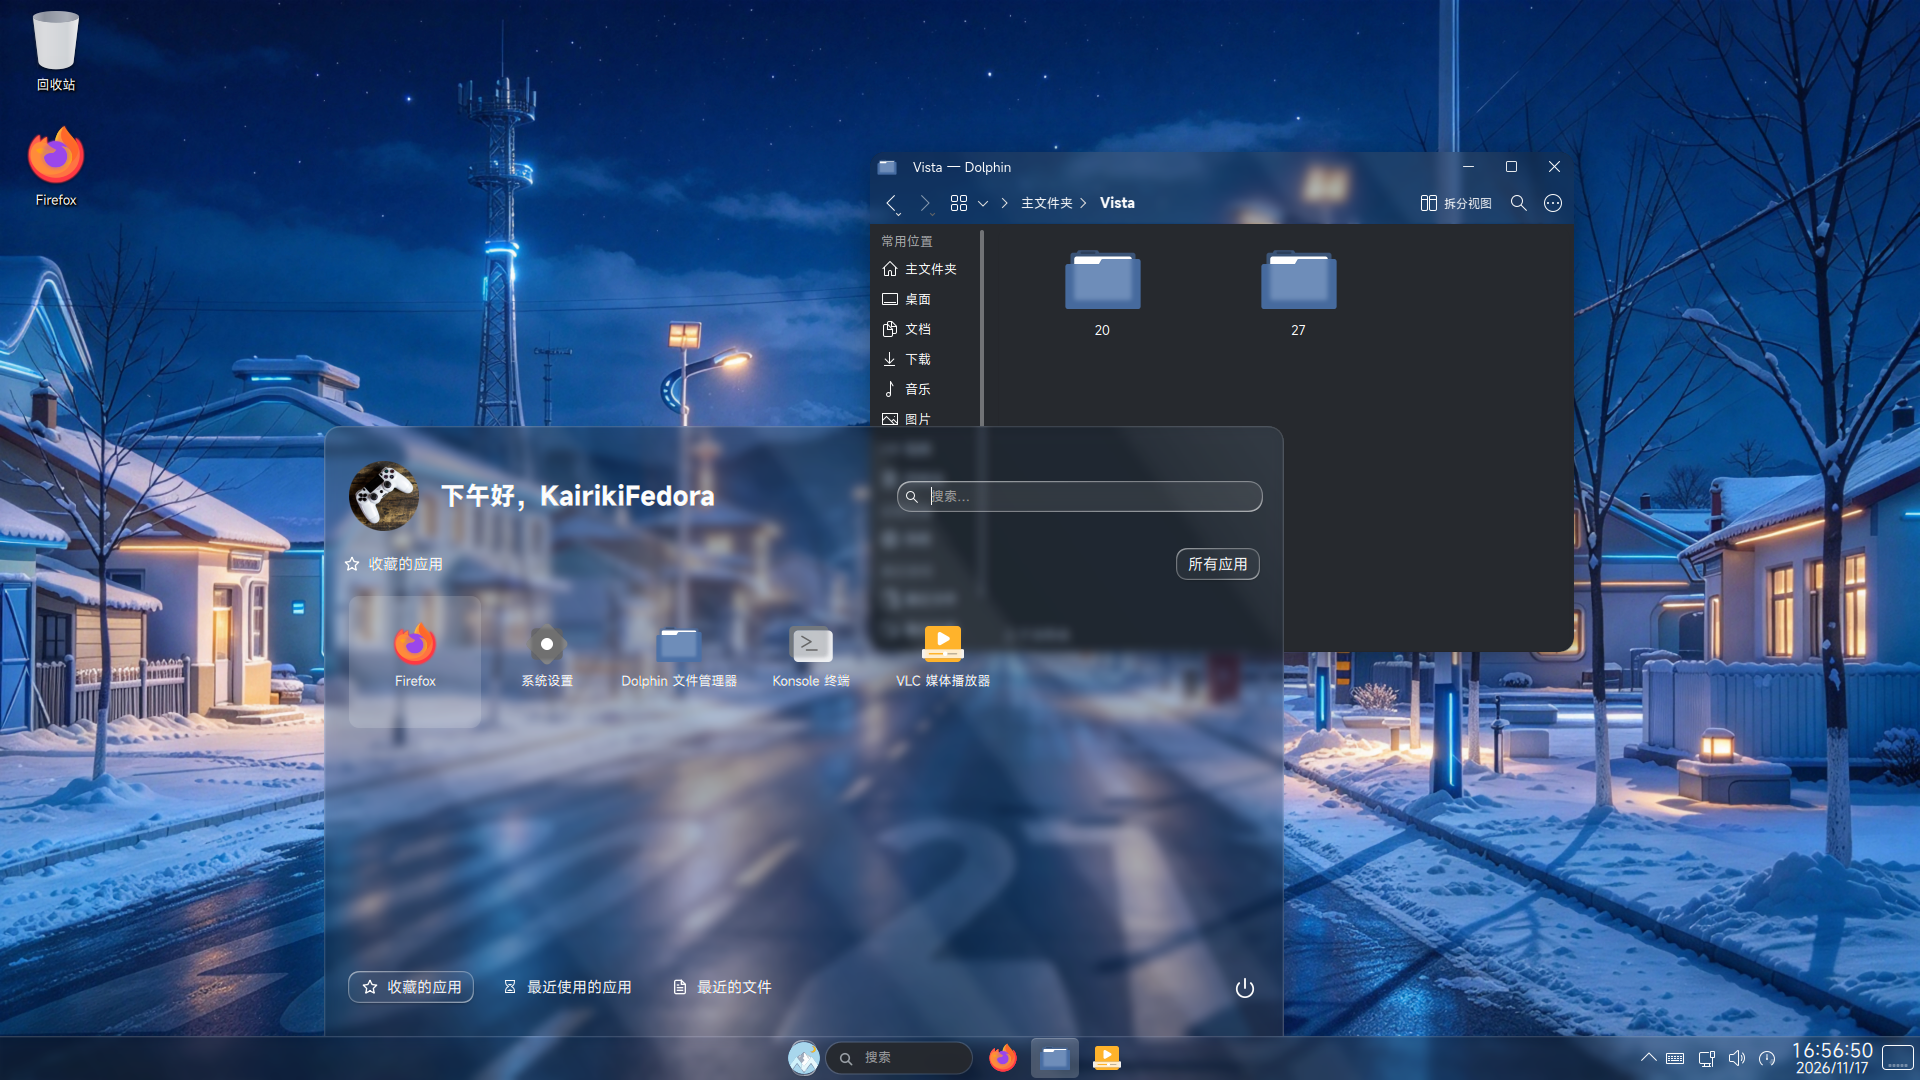
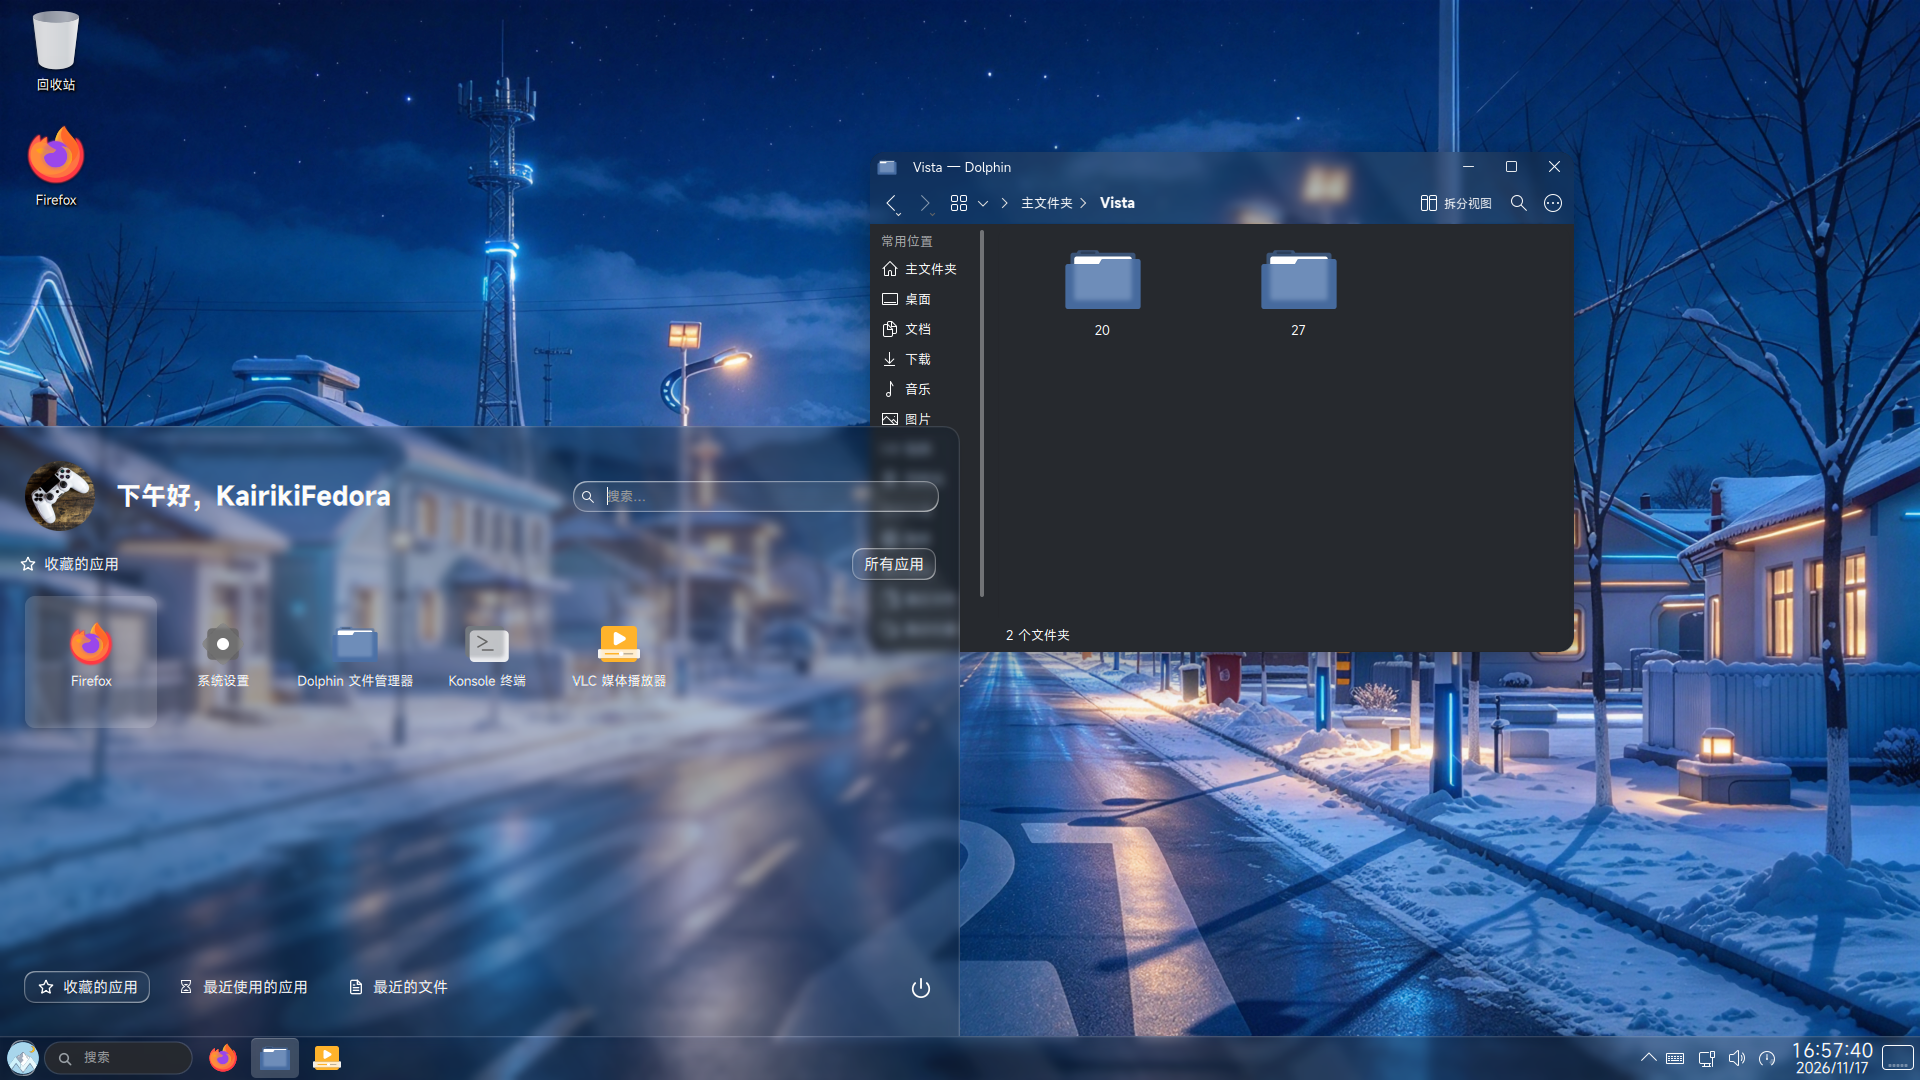
Revert:Default Layout is Windows 10 Taskbar Layout

diff --git a/usr/share/plasma/look-and-feel/evernight-vista-dark/contents/layouts/org.kde.plasma.desktop-layout.js b/usr/share/plasma/look-and-feel/evernight-vista-dark/contents/layouts/org.kde.plasma.desktop-layout.js
@@ -42,7 +42,6 @@ if (geo.width > maximumWidth) {
     panel.maximumLength = maximumWidth;
 }
 
-panel.addWidget("org.kde.plasma.panelspacer")
 var kickoff = panel.addWidget("org.miryugaming.startmenu")
 kickoff.writeConfig("favorites", ["preferred://browser", "systemsettings.desktop", "org.kde.dolphin.desktop", "org.kde.konsole.desktop", "vlc.desktop"])
 
@@ -53,7 +52,7 @@ let taskBar = panel.addWidget("org.kde.plasma.icontasks.skyler")
 taskBar.writeConfig("launchers",["preferred://browser","preferred://filemanager","applications:vlc.desktop"])
 taskBar.writeConfig("hoverEffect",false)
 
-panel.addWidget("org.kde.plasma.panelspacer")
+panel.addWidget("org.kde.plasma.pager")
 
 panel.addWidget("org.kde.windowsmodern.systemtray")
 let digitalClock = panel.addWidget("org.kde.plasma.digitalclock")

diff --git a/usr/share/plasma/look-and-feel/evernight-vista-modern-dark/contents/layouts/org.kde.plasma.desktop-layout.js b/usr/share/plasma/look-and-feel/evernight-vista-modern-dark/contents/layouts/org.kde.plasma.desktop-layout.js
@@ -42,6 +42,7 @@ if (geo.width > maximumWidth) {
     panel.maximumLength = maximumWidth;
 }
 
+panel.addWidget("org.kde.plasma.panelspacer")
 var kickoff = panel.addWidget("org.miryugaming.startmenu")
 kickoff.writeConfig("favorites", ["preferred://browser", "systemsettings.desktop", "org.kde.dolphin.desktop", "org.kde.konsole.desktop", "vlc.desktop"])
 
@@ -52,7 +53,7 @@ let taskBar = panel.addWidget("org.kde.plasma.icontasks.skyler")
 taskBar.writeConfig("launchers",["preferred://browser","preferred://filemanager","applications:vlc.desktop"])
 taskBar.writeConfig("hoverEffect",false)
 
-panel.addWidget("org.kde.plasma.pager")
+panel.addWidget("org.kde.plasma.panelspacer")
 
 panel.addWidget("org.kde.windowsmodern.systemtray")
 let digitalClock = panel.addWidget("org.kde.plasma.digitalclock")

diff --git a/usr/share/plasma/look-and-feel/evernight-vista-modern/contents/layouts/org.kde.plasma.desktop-layout.js b/usr/share/plasma/look-and-feel/evernight-vista-modern/contents/layouts/org.kde.plasma.desktop-layout.js
@@ -42,6 +42,7 @@ if (geo.width > maximumWidth) {
     panel.maximumLength = maximumWidth;
 }
 
+panel.addWidget("org.kde.plasma.panelspacer")
 var kickoff = panel.addWidget("org.miryugaming.startmenu")
 kickoff.writeConfig("favorites", ["preferred://browser", "systemsettings.desktop", "org.kde.dolphin.desktop", "org.kde.konsole.desktop", "vlc.desktop"])
 
@@ -52,7 +53,7 @@ let taskBar = panel.addWidget("org.kde.plasma.icontasks.skyler")
 taskBar.writeConfig("launchers",["preferred://browser","preferred://filemanager","applications:vlc.desktop"])
 taskBar.writeConfig("hoverEffect",false)
 
-panel.addWidget("org.kde.plasma.pager")
+panel.addWidget("org.kde.plasma.panelspacer")
 
 panel.addWidget("org.kde.windowsmodern.systemtray")
 let digitalClock = panel.addWidget("org.kde.plasma.digitalclock")

diff --git a/usr/share/plasma/look-and-feel/evernight-vista/contents/layouts/org.kde.plasma.desktop-layout.js b/usr/share/plasma/look-and-feel/evernight-vista/contents/layouts/org.kde.plasma.desktop-layout.js
@@ -42,7 +42,6 @@ if (geo.width > maximumWidth) {
     panel.maximumLength = maximumWidth;
 }
 
-panel.addWidget("org.kde.plasma.panelspacer")
 var kickoff = panel.addWidget("org.miryugaming.startmenu")
 kickoff.writeConfig("favorites", ["preferred://browser", "systemsettings.desktop", "org.kde.dolphin.desktop", "org.kde.konsole.desktop", "vlc.desktop"])
 
@@ -53,7 +52,7 @@ let taskBar = panel.addWidget("org.kde.plasma.icontasks.skyler")
 taskBar.writeConfig("launchers",["preferred://browser","preferred://filemanager","applications:vlc.desktop"])
 taskBar.writeConfig("hoverEffect",false)
 
-panel.addWidget("org.kde.plasma.panelspacer")
+panel.addWidget("org.kde.plasma.pager")
 
 panel.addWidget("org.kde.windowsmodern.systemtray")
 let digitalClock = panel.addWidget("org.kde.plasma.digitalclock")

diff --git a/usr/share/plasma/layout-templates/evernight-vista-panel/contents/layout.js b/usr/share/plasma/layout-templates/evernight-vista-panel/contents/layout.js
@@ -44,7 +44,6 @@ if (panel.formFactor === "horizontal") {
     }
 }
 
-panel.addWidget("org.kde.plasma.panelspacer")
 var kickoff = panel.addWidget("org.miryugaming.startmenu")
 panel.addWidget("org.miryugaming.search")
 
@@ -53,8 +52,7 @@ let taskBar = panel.addWidget("org.kde.plasma.icontasks.skyler")
 taskBar.writeConfig("launchers",["preferred://browser","preferred://filemanager","applications:vlc.desktop"])
 taskBar.writeConfig("hoverEffect",false)
 
-panel.addWidget("org.kde.plasma.panelspacer")
-//panel.addWidget("org.kde.plasma.pager")
+panel.addWidget("org.kde.plasma.pager")
 
 panel.addWidget("org.kde.windowsmodern.systemtray")
 let digitalClock = panel.addWidget("org.kde.plasma.digitalclock")
